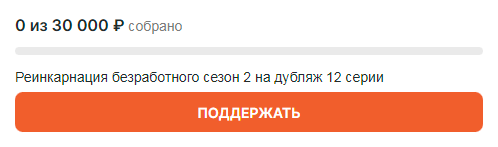
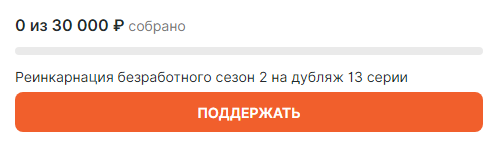
update

diff --git a/mli/mushoku-tensei-ii-isekai-ittara-honki-dasu.html b/mli/mushoku-tensei-ii-isekai-ittara-honki-dasu.html
@@ -6,13 +6,13 @@
 	<head>
 	<meta charset="utf-8">
 	<meta http-equiv="X-UA-Compatible" content="IE=edge">
-	<title>Реинкарнация безработного: История о приключениях в другом мире 2 / Mushoku Tensei II: Isekai Ittara Honki Dasu [12 из 25]</title>
+	<title>Реинкарнация безработного: История о приключениях в другом мире 2 / Mushoku Tensei II: Isekai Ittara Honki Dasu [13 из 25]</title>
 	<meta name="viewport" content="width=device-width, initial-scale=1">
 	<meta name="description" content="Смотреть онлайн аниме Реинкарнация безработного: История о приключениях в другом мире 2 / Перерождение безработного 2 / Mushoku Tensei II: Isekai Ittara Honki Dasu. Прямое продолжение аниме-сериала «Реинкарнация безработного». 34-летний NEET гибнет в ДТП и попадает в магический мир. Вместо того чтобы очнуться полноценным магом, он перевоплощается в младенца, сохранив воспоминания о предыдущей жизни. Еще прежде чем начал ходить, он решил не совершать ошибок прошлого. Так начинается история Рудеуса Грейрата, сына фехтовальщика Пола и целительницы Зенит." />
 	<!--<link rel="import" href="/scripts.html">-->
 
 
-	<meta property="og:title" content="Реинкарнация безработного: История о приключениях в другом мире 2 / Mushoku Tensei II: Isekai Ittara Honki Dasu [12 из 25]"/>
+	<meta property="og:title" content="Реинкарнация безработного: История о приключениях в другом мире 2 / Mushoku Tensei II: Isekai Ittara Honki Dasu [13 из 25]"/>
 	<meta property="og:image" content="/img/poster/mushoku-tensei-ii-isekai-ittara-honki-dasu.jpg"/>
 	<meta property="og:url" content="/mli/mushoku-tensei-ii-isekai-ittara-honki-dasu.html"/>
 	<meta property="og:site_name" content=""/>
@@ -89,7 +89,7 @@
            </div>
 		
 		   <div class="lines"></div>
-		   <h4 style="margin-bottom: .75rem;">Mushoku Tensei II: Isekai Ittara Honki Dasu [12 из 25]<br><small class="text-muted">Реинкарнация безработного: История о приключениях в другом мире 2</small></h4>
+		   <h4 style="margin-bottom: .75rem;">Mushoku Tensei II: Isekai Ittara Honki Dasu [13 из 25]<br><small class="text-muted">Реинкарнация безработного: История о приключениях в другом мире 2</small></h4>
 		   <div class="lines"></div>
 	  </div>
 	  

diff --git a/embed/mushoku-tensei-ii-isekai-ittara-honki-dasu.html b/embed/mushoku-tensei-ii-isekai-ittara-honki-dasu.html
@@ -31,7 +31,8 @@
 	  {"title":"Эпизод 08","file":"[720p]https://mcrnfs001.000webhostapp.com/?v=663211921,[1080p]https://mcrnfs001.000webhostapp.com/?v=663218211"},
 	  {"title":"Эпизод 09","file":"[720p]https://mcrnfs001.000webhostapp.com/?v=663546072,[1080p]https://mcrnfs001.000webhostapp.com/?v=663546175"},
 	  {"title":"Эпизод 10","file":"[720p]https://mcrnfs001.000webhostapp.com/?v=663883060,[1080p]https://mcrnfs001.000webhostapp.com/?v=663883944"},
-	  {"title":"Эпизод 11","file":"[720p]https://mcrnfs001.000webhostapp.com/?v=664164156,[1080p]https://mcrnfs001.000webhostapp.com/?v=664170290"}
+	  {"title":"Эпизод 11","file":"[720p]https://mcrnfs001.000webhostapp.com/?v=664164156,[1080p]https://mcrnfs001.000webhostapp.com/?v=664170290"},
+	  {"title":"Эпизод 12","file":"[720p]https://mcrnfs001.000webhostapp.com/?v=664456358,[1080p]https://mcrnfs001.000webhostapp.com/?v=664462802"}
    ],
         embed: 'https://macaron.fun/embed/mushoku-tensei-ii-isekai-ittara-honki-dasu.html',
 		url: 'https://macaron.fun/mli/mushoku-tensei-ii-isekai-ittara-honki-dasu.html',

diff --git a/mli/index.html b/mli/index.html
@@ -195,7 +195,7 @@
 				</figure>
 				<span class="mcrn-meta"><a href="/mli/mushoku-tensei-ii-isekai-ittara-honki-dasu.html">Студийная банда</a></span>
 				<h2 class="mcrn-article-title"><a href="/mli/mushoku-tensei-ii-isekai-ittara-honki-dasu.html">Реинкарнация безработного: История о приключениях в другом мире 2</a></h2>
-				<span class="mcrn-meta mcrn-date">Sep 19th, 2023</span>
+				<span class="mcrn-meta mcrn-date">Sep 26th, 2023</span>
 			</article>
 			
 			<article class="col-lg-3 col-md-3 col-sm-3 col-xs-6 col-xxs-12 animate-box">

diff --git a/macaron-reklama.html b/macaron-reklama.html
@@ -4,4 +4,4 @@
     margin-right: auto;
 }
 </style>
-<a href="https://boosty.to/aphoenixvoice/single-payment/donation/470226/target?share=target_link" target="_blank"><img style="width: 100%; border-radius: calc(1.25rem - 1px);" src="/sb.png"></a>
+<a href="https://boosty.to/aphoenixvoice/single-payment/donation/473361/target?share=target_link" target="_blank"><img style="width: 100%; border-radius: calc(1.25rem - 1px);" src="/sb.png"></a>
